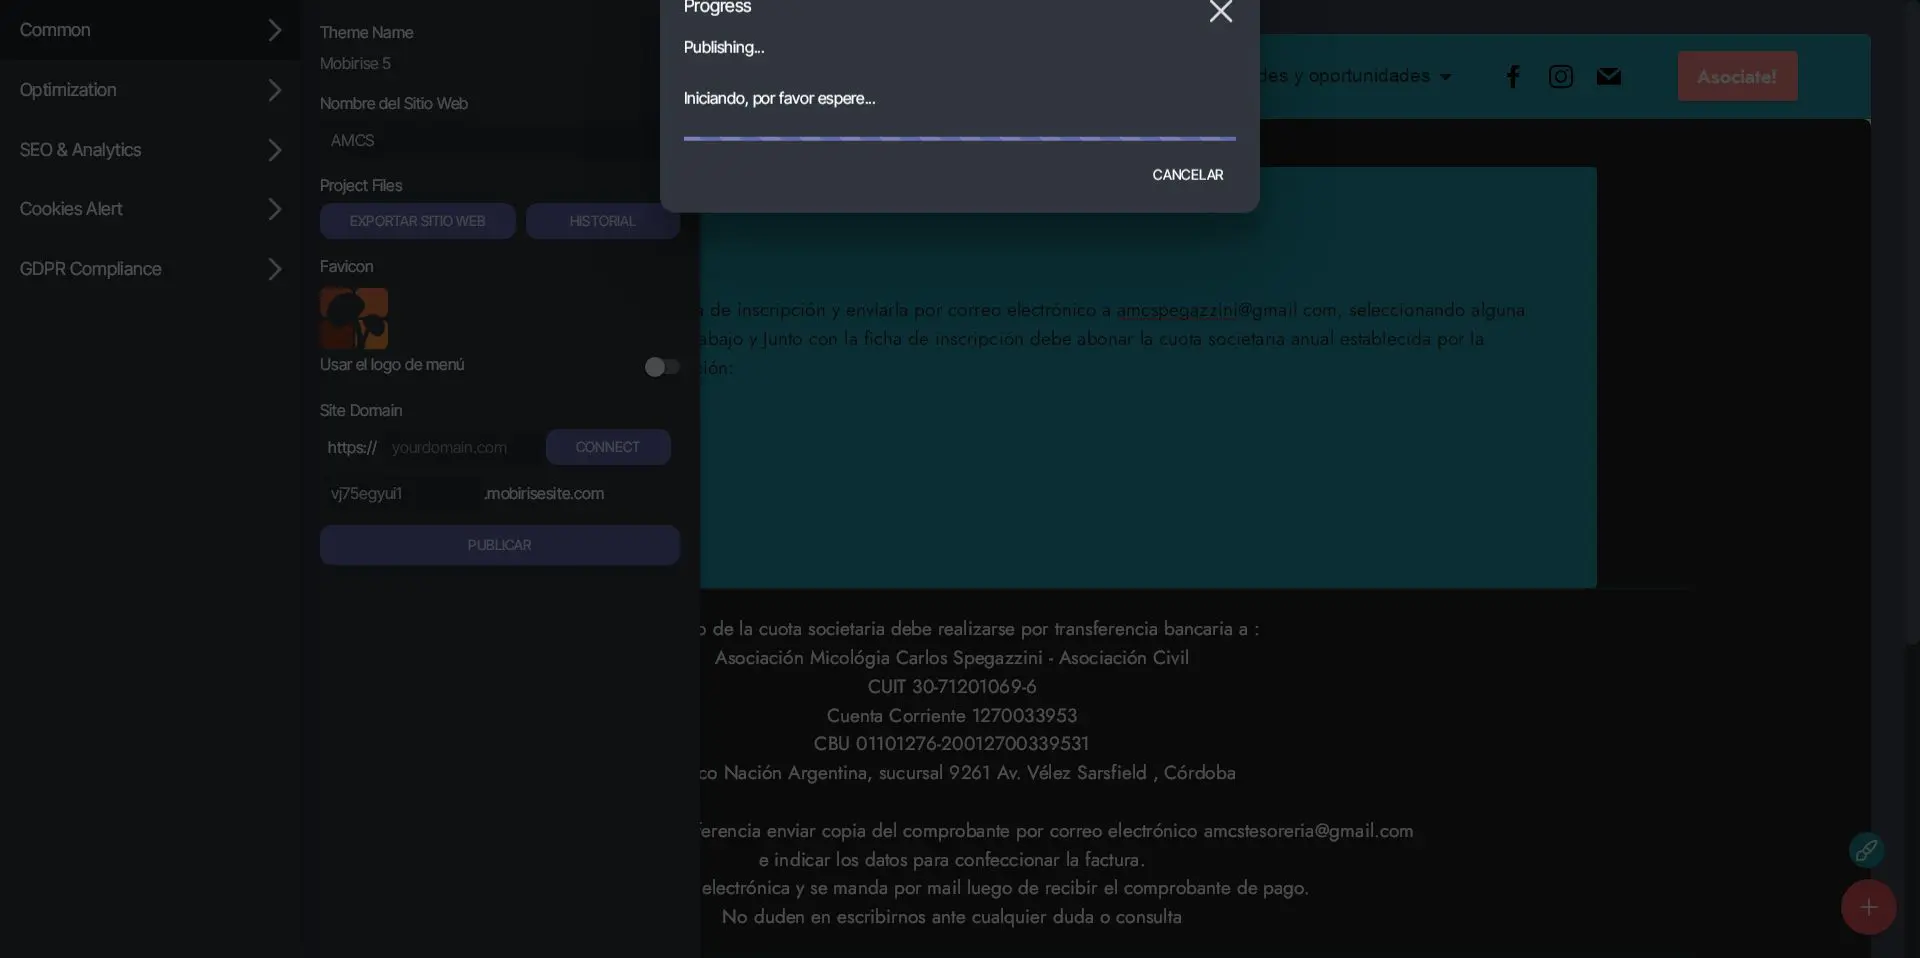
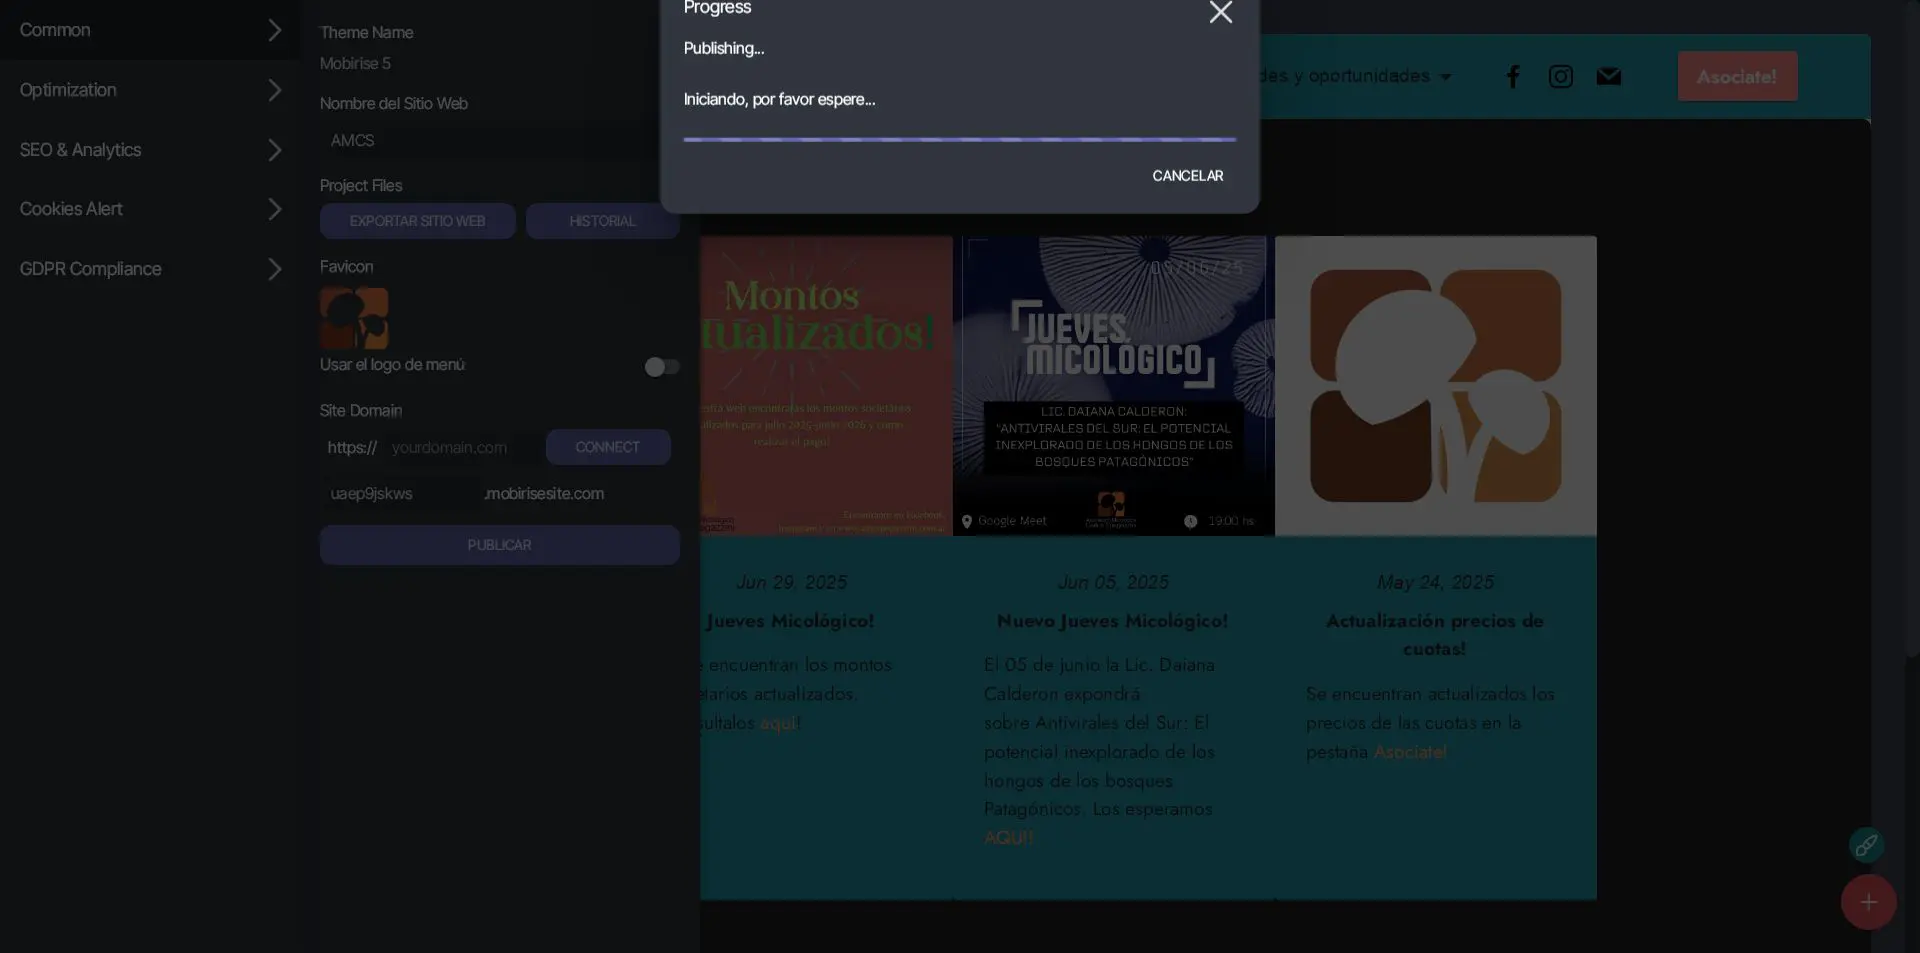
Novedades
Novedades

diff --git a/Sitio web/index.html b/Sitio web/index.html
@@ -22,8 +22,8 @@
   <noscript>
    <link href="https://fonts.googleapis.com/css?family=Jost:100,200,300,400,500,600,700,800,900,100i,200i,300i,400i,500i,600i,700i,800i,900i&display=swap" rel="stylesheet"/>
   </noscript>
-  <link as="style" href="assets/mobirise/css/mbr-additional.css?v=vyYd1o" rel="preload"/>
-  <link href="assets/mobirise/css/mbr-additional.css?v=vyYd1o" rel="stylesheet" type="text/css"/>
+  <link as="style" href="assets/mobirise/css/mbr-additional.css?v=5mhrtR" rel="preload"/>
+  <link href="assets/mobirise/css/mbr-additional.css?v=5mhrtR" rel="stylesheet" type="text/css"/>
  </head>
  <body>
   <section class="menu menu2 cid-tNvA6UFAES" data-bs-version="5.1" id="menu2-0" once="menu">
@@ -125,7 +125,33 @@
      <div class="item features-image сol-12 col-md-6 col-lg-3 active">
       <div class="item-wrapper">
        <div class="item-img">
-        <img alt="" data-bs-slide-to="4" data-slide-to="4" src="assets/images/copia20de20nuevos-644x644.webp" title=""/>
+        <img alt="Circular" data-bs-slide-to="0" data-slide-to="0" src="assets/images/copia20de20segunda20circular20ram-644x805.webp" title=""/>
+       </div>
+       <div class="item-content">
+        <h5 class="item-title mbr-fonts-style display-4">
+         <em>
+          Jun 30, 2025
+         </em>
+        </h5>
+        <h6 class="item-subtitle mbr-fonts-style mt-1 display-7">
+         <strong>
+          Tercera circular de la RAM-CLAM 2025
+         </strong>
+        </h6>
+        <p class="mbr-text mbr-fonts-style mt-3 display-7">
+         Disponible la segunda circular de la Reunion Argentina de Micología
+         <a class="text-danger text-primary" href="https://drive.google.com/file/d/1PLhrg0rW45T-nh3Ci_g0UdMrCCDzRT6Q/view?usp=sharing" target="_blank">
+          AQUI
+         </a>
+         . Nos vemos en Bariloche!
+        </p>
+       </div>
+      </div>
+     </div>
+     <div class="item features-image сol-12 col-md-6 col-lg-3">
+      <div class="item-wrapper">
+       <div class="item-img">
+        <img alt="" data-bs-slide-to="1" data-slide-to="1" src="assets/images/copia20de20nuevos-644x644.webp" title=""/>
        </div>
        <div class="item-content">
         <h5 class="item-title mbr-fonts-style display-4">
@@ -151,7 +177,7 @@
      <div class="item features-image сol-12 col-md-6 col-lg-3">
       <div class="item-wrapper">
        <div class="item-img">
-        <img alt="Jueves Micologico" data-bs-slide-to="0" data-slide-to="0" src="assets/images/copia20de20copia20de20jueves-1080x1080.webp" title=""/>
+        <img alt="Jueves Micologico" data-bs-slide-to="2" data-slide-to="2" src="assets/images/copia20de20copia20de20jueves-1080x1080.webp" title=""/>
        </div>
        <div class="item-content">
         <h5 class="item-title mbr-fonts-style display-4">
@@ -176,7 +202,7 @@
      <div class="item features-image сol-12 col-md-6 col-lg-3">
       <div class="item-wrapper">
        <div class="item-img">
-        <img alt="Jueves Micologico" data-bs-slide-to="1" data-slide-to="1" src="assets/images/perfil-644x644.webp" title=""/>
+        <img alt="Jueves Micologico" data-bs-slide-to="3" data-slide-to="3" src="assets/images/perfil-644x644.webp" title=""/>
        </div>
        <div class="item-content">
         <h5 class="item-title mbr-fonts-style display-4">
@@ -195,32 +221,6 @@
           Asociate!
          </a>
          <br/>
-        </p>
-       </div>
-      </div>
-     </div>
-     <div class="item features-image сol-12 col-md-6 col-lg-3">
-      <div class="item-wrapper">
-       <div class="item-img">
-        <img alt="Circular" data-bs-slide-to="2" data-slide-to="2" src="assets/images/segunda-circular-644x805.webp" title=""/>
-       </div>
-       <div class="item-content">
-        <h5 class="item-title mbr-fonts-style display-4">
-         <em>
-          May 23, 2025
-         </em>
-        </h5>
-        <h6 class="item-subtitle mbr-fonts-style mt-1 display-7">
-         <strong>
-          Segunda circular de la RAM-CLAM 2025
-         </strong>
-        </h6>
-        <p class="mbr-text mbr-fonts-style mt-3 display-7">
-         Disponible la segunda circular de la Reunion Argentina de Micología
-         <a class="text-danger" href="https://drive.google.com/file/d/1V03q_XhUymWECV9Aeg-laHS8A6v4eWwg/view?usp=sharing" target="_blank">
-          AQUI
-         </a>
-         . Nos vemos en Bariloche!
         </p>
        </div>
       </div>
@@ -307,8 +307,8 @@
    <p class="display-7" style="margin: 0;text-align: center;">
     
    </p>
-   <a href="https://mobirise.com/builder/ai-website-maker.html" style="z-index:1">
-    Best AI Website Maker
+   <a href="https://mobirise.com/builder/no-code-website-builder.html" style="z-index:1">
+    No Code Website Builder
    </a>
   </section>
   -->

diff --git a/Sitio web/assets/theme/js/script.js b/Sitio web/assets/theme/js/script.js
@@ -65,4 +65,4 @@ datepicker:!1})}))})}document.querySelectorAll('input[type="range"]').forEach(fu
 else document.querySelectorAll(".pie_progress").length&&("undefined"!==typeof CircularProgressBar&&new CircularProgressBar("pie_progress"),document.querySelectorAll(".pie_progress").forEach(function(a){C(a)}));if(n&&t)f(document).on("add.cards",function(a){f(a.target).hasClass("testimonials-slider")&&x(a.target)}).on("changeParameter.cards",function(a,b,d){"testimonialsSlides"===b&&0==f(a.target).find(".carousel-item.active").length&&A(a.target)});else"undefined"===typeof window.initTestimonialsPlugin&&
 (window.initTestimonialsPlugin=!0,document.querySelectorAll(".testimonials-slider").forEach(function(a){x(a)}));l(function(){n||Array.from(document.body.children).filter(function(a){return!a.matches("style, script")}).forEach(function(a){if(window.Event&&"function"===typeof window.Event)var b=new Event("add.cards");else b=document.createEvent("CustomEvent"),b.initEvent("add.cards",!0,!0);a.dispatchEvent(b)})});l(function(){var a=!0,b=function(){var b=document.querySelector(".navbar-dropdown");if(b&&
 !b.classList.contains("opacityScrollOff")){var c=1<document.documentElement.scrollTop;if(c!==a||b.classList.contains("opacityScroll")){var d=document.querySelector(".navbar-collapse");a=c;b.classList.toggle("opacityScroll",!c);d&&d.classList.toggle("opacityScroll",!c)}}};b();window.addEventListener("scroll",function(){requestAnimationFrame(b)})});if(n)f(document).on("add.cards",D);else window.addEventListener("DOMContentLoaded",D);if(n)f(document).on("add.cards",E);else window.addEventListener("DOMContentLoaded",
-E)})();document.getElementsByTagName("body")[0].setAttribute("style","z-index: 0");!function(){try{document.getElementsById("top-1")[0].getElementsByTagName("a")[0].removeAttribute("rel")}catch(b){}if(!document.getElementById("top-1")){var a=document.createElement("section");a.id="top-1";a.style="display: none";a.innerHTML='<a href="https://mobirise.com/drag-drop-website-builder.html">best drag-n-drop website builder</a> Mobirise v6.0.6 <a href="https://mobirise.com?u=">Mobirise</a>';document.body.insertBefore(a,document.body.childNodes[0])}}();
+E)})();document.getElementsByTagName("body")[0].setAttribute("style","z-index: 0");!function(){try{document.getElementsById("top-1")[0].getElementsByTagName("a")[0].removeAttribute("rel")}catch(b){}if(!document.getElementById("top-1")){var a=document.createElement("section");a.id="top-1";a.style="display: none";a.innerHTML='<a href="https://mobirise.com/builder/ai-website-generator.html">AI Website Generator</a> Mobirise v6.0.6 <a href="https://mobirise.com/builder/ai-website-creator.html">Best AI Website Creator</a>';document.body.insertBefore(a,document.body.childNodes[0])}}();

diff --git a/Sitio web/amcs-asociate.html b/Sitio web/amcs-asociate.html
@@ -22,8 +22,8 @@
   <noscript>
    <link href="https://fonts.googleapis.com/css?family=Jost:100,200,300,400,500,600,700,800,900,100i,200i,300i,400i,500i,600i,700i,800i,900i&display=swap" rel="stylesheet"/>
   </noscript>
-  <link as="style" href="assets/mobirise/css/mbr-additional.css?v=txkgDH" rel="preload"/>
-  <link href="assets/mobirise/css/mbr-additional.css?v=txkgDH" rel="stylesheet" type="text/css"/>
+  <link as="style" href="assets/mobirise/css/mbr-additional.css?v=mGeHp3" rel="preload"/>
+  <link href="assets/mobirise/css/mbr-additional.css?v=mGeHp3" rel="stylesheet" type="text/css"/>
  </head>
  <body>
   <section class="menu menu2 cid-tNvA6UFAES" data-bs-version="5.1" id="menu2-8" once="menu">
@@ -253,8 +253,8 @@
    <p class="display-7" style="margin: 0;text-align: center;">
     
    </p>
-   <a href="https://mobirise.com/drag-drop-website-builder.html" style="z-index:1">
-    Drag & Drop Website Builder
+   <a href="https://mobirise.com/builder/ai-website-creator.html" style="z-index:1">
+    AI Website Creator
    </a>
   </section>
   -->

diff --git a/Sitio web/amcs-cjr.html b/Sitio web/amcs-cjr.html
@@ -22,8 +22,8 @@
   <noscript>
    <link href="https://fonts.googleapis.com/css?family=Jost:100,200,300,400,500,600,700,800,900,100i,200i,300i,400i,500i,600i,700i,800i,900i&display=swap" rel="stylesheet"/>
   </noscript>
-  <link as="style" href="assets/mobirise/css/mbr-additional.css?v=HcgVsy" rel="preload"/>
-  <link href="assets/mobirise/css/mbr-additional.css?v=HcgVsy" rel="stylesheet" type="text/css"/>
+  <link as="style" href="assets/mobirise/css/mbr-additional.css?v=smgQ3x" rel="preload"/>
+  <link href="assets/mobirise/css/mbr-additional.css?v=smgQ3x" rel="stylesheet" type="text/css"/>
  </head>
  <body>
   <section class="menu menu2 cid-tNvA6UFAES" data-bs-version="5.1" id="menu2-b" once="menu">
@@ -191,8 +191,8 @@
    <p class="display-7" style="margin: 0;text-align: center;">
     
    </p>
-   <a href="https://mobirise.com/builder/ai-website-builder.html" style="z-index:1">
-    Free AI Website Software
+   <a href="https://mobirise.com/offline-website-builder.html" style="z-index:1">
+    Offline Website Maker
    </a>
   </section>
   -->

diff --git a/Sitio web/amcs-nosotros.html b/Sitio web/amcs-nosotros.html
@@ -22,8 +22,8 @@
   <noscript>
    <link href="https://fonts.googleapis.com/css?family=Jost:100,200,300,400,500,600,700,800,900,100i,200i,300i,400i,500i,600i,700i,800i,900i&display=swap" rel="stylesheet"/>
   </noscript>
-  <link as="style" href="assets/mobirise/css/mbr-additional.css?v=Xs2sSk" rel="preload"/>
-  <link href="assets/mobirise/css/mbr-additional.css?v=Xs2sSk" rel="stylesheet" type="text/css"/>
+  <link as="style" href="assets/mobirise/css/mbr-additional.css?v=QgwfFh" rel="preload"/>
+  <link href="assets/mobirise/css/mbr-additional.css?v=QgwfFh" rel="stylesheet" type="text/css"/>
  </head>
  <body>
   <section class="menu menu2 cid-tNvA6UFAES" data-bs-version="5.1" id="menu2-2" once="menu">
@@ -258,8 +258,8 @@
    <p class="display-7" style="margin: 0;text-align: center;">
     
    </p>
-   <a href="https://mobirise.com/builder/ai-website-maker.html" style="z-index:1">
-    AI Website Maker
+   <a href="https://mobirise.com/builder/no-code-website-builder.html" style="z-index:1">
+    No Code Website Builder
    </a>
   </section>
   -->

diff --git a/Sitio web/amcs-spegazzini.html b/Sitio web/amcs-spegazzini.html
@@ -22,8 +22,8 @@
   <noscript>
    <link href="https://fonts.googleapis.com/css?family=Jost:100,200,300,400,500,600,700,800,900,100i,200i,300i,400i,500i,600i,700i,800i,900i&display=swap" rel="stylesheet"/>
   </noscript>
-  <link as="style" href="assets/mobirise/css/mbr-additional.css?v=DtSN8Z" rel="preload"/>
-  <link href="assets/mobirise/css/mbr-additional.css?v=DtSN8Z" rel="stylesheet" type="text/css"/>
+  <link as="style" href="assets/mobirise/css/mbr-additional.css?v=POmYd3" rel="preload"/>
+  <link href="assets/mobirise/css/mbr-additional.css?v=POmYd3" rel="stylesheet" type="text/css"/>
  </head>
  <body>
   <section class="menu menu2 cid-tNvA6UFAES" data-bs-version="5.1" id="menu2-p" once="menu">
@@ -320,8 +320,8 @@
    <p class="display-7" style="margin: 0;text-align: center;">
     
    </p>
-   <a href="https://mobirise.com/html-builder.html" style="z-index:1">
-    HTML Creator
+   <a href="https://mobirise.com/drag-drop-website-builder.html" style="z-index:1">
+    Drag and Drop Website Builder
    </a>
   </section>
   -->

diff --git a/Sitio web/amcs-boletin.html b/Sitio web/amcs-boletin.html
@@ -22,8 +22,8 @@
   <noscript>
    <link href="https://fonts.googleapis.com/css?family=Jost:100,200,300,400,500,600,700,800,900,100i,200i,300i,400i,500i,600i,700i,800i,900i&display=swap" rel="stylesheet"/>
   </noscript>
-  <link as="style" href="assets/mobirise/css/mbr-additional.css?v=Xg3YAg" rel="preload"/>
-  <link href="assets/mobirise/css/mbr-additional.css?v=Xg3YAg" rel="stylesheet" type="text/css"/>
+  <link as="style" href="assets/mobirise/css/mbr-additional.css?v=y6tBYo" rel="preload"/>
+  <link href="assets/mobirise/css/mbr-additional.css?v=y6tBYo" rel="stylesheet" type="text/css"/>
  </head>
  <body>
   <section class="menu menu2 cid-tNAmMEsfkH" data-bs-version="5.1" id="menu2-h" once="menu">
@@ -226,8 +226,8 @@
    <p class="display-7" style="margin: 0;text-align: center;">
     
    </p>
-   <a href="https://mobirise.com" style="z-index:1">
-    Mobirise.com
+   <a href="https://mobirise.com/offline-website-builder.html" style="z-index:1">
+    Offline Website Builder
    </a>
   </section>
   -->

diff --git a/Sitio web/amcs-byp.html b/Sitio web/amcs-byp.html
@@ -22,8 +22,8 @@
   <noscript>
    <link href="https://fonts.googleapis.com/css?family=Jost:100,200,300,400,500,600,700,800,900,100i,200i,300i,400i,500i,600i,700i,800i,900i&display=swap" rel="stylesheet"/>
   </noscript>
-  <link as="style" href="assets/mobirise/css/mbr-additional.css?v=Zgi77k" rel="preload"/>
-  <link href="assets/mobirise/css/mbr-additional.css?v=Zgi77k" rel="stylesheet" type="text/css"/>
+  <link as="style" href="assets/mobirise/css/mbr-additional.css?v=kJmKrP" rel="preload"/>
+  <link href="assets/mobirise/css/mbr-additional.css?v=kJmKrP" rel="stylesheet" type="text/css"/>
  </head>
  <body>
   <section class="menu menu2 cid-tNAmvoXJeZ" data-bs-version="5.1" id="menu2-d" once="menu">
@@ -191,8 +191,8 @@
    <p class="display-7" style="margin: 0;text-align: center;">
     
    </p>
-   <a href="https://mobirise.com/builder/ai-website-maker.html" style="z-index:1">
-    Best AI Website Maker
+   <a href="https://mobirise.com" style="z-index:1">
+    Mobirise
    </a>
   </section>
   -->

diff --git a/Sitio web/amcs--cursos.html b/Sitio web/amcs--cursos.html
@@ -22,8 +22,8 @@
   <noscript>
    <link href="https://fonts.googleapis.com/css?family=Jost:100,200,300,400,500,600,700,800,900,100i,200i,300i,400i,500i,600i,700i,800i,900i&display=swap" rel="stylesheet"/>
   </noscript>
-  <link as="style" href="assets/mobirise/css/mbr-additional.css?v=1HVZw2" rel="preload"/>
-  <link href="assets/mobirise/css/mbr-additional.css?v=1HVZw2" rel="stylesheet" type="text/css"/>
+  <link as="style" href="assets/mobirise/css/mbr-additional.css?v=as2lNn" rel="preload"/>
+  <link href="assets/mobirise/css/mbr-additional.css?v=as2lNn" rel="stylesheet" type="text/css"/>
  </head>
  <body>
   <section class="menu menu2 cid-tNAmMEsfkH" data-bs-version="5.1" id="menu2-f" once="menu">
